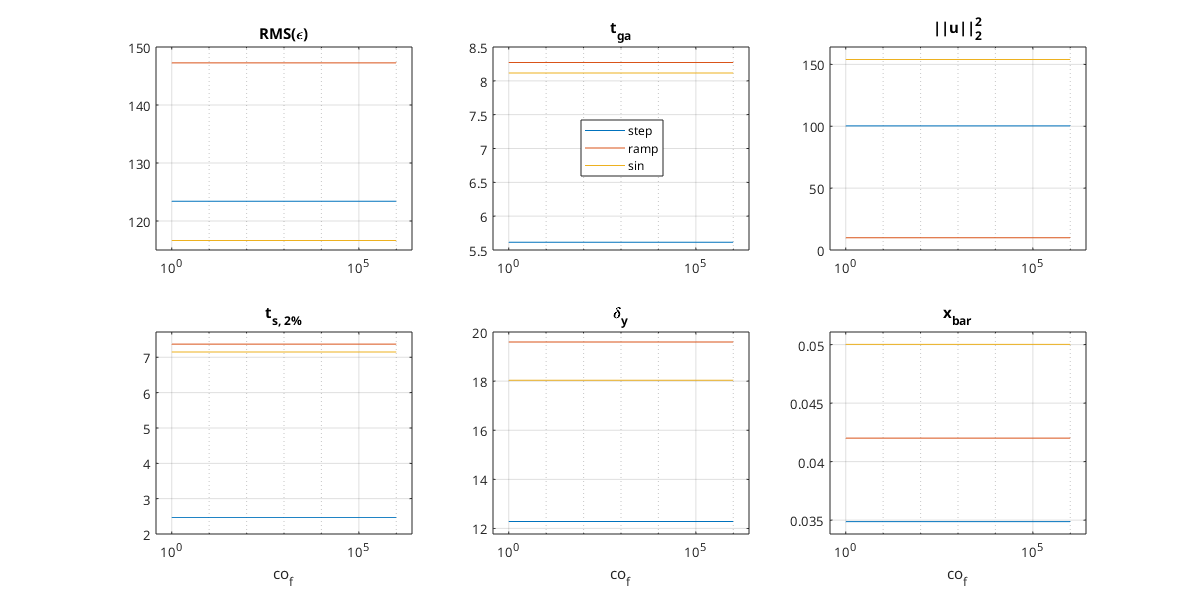
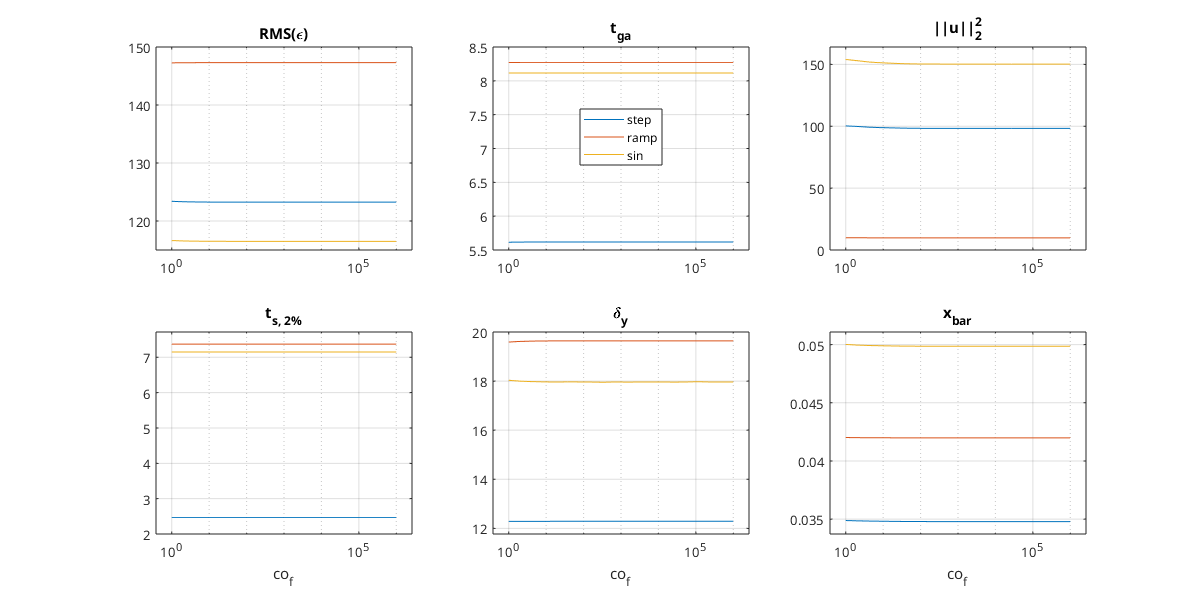
final commit pre-submission

diff --git a/Part II/project/main.m b/Part II/project/main.m
@@ -78,8 +78,8 @@ co_fact = {length(refs)};
 for ref_n = 1:length(refs)
     co_fact{ref_n} = [];
 
-    for curr_c0 = co_fact_vec
-        par.c0_fact = curr_c0;
+    for curr_co = co_fact_vec
+        par.co_fact = curr_co;
         ref_type = refs{ref_n};
 
         metrics = CPS_sim(ref_type, par, false, silent);
